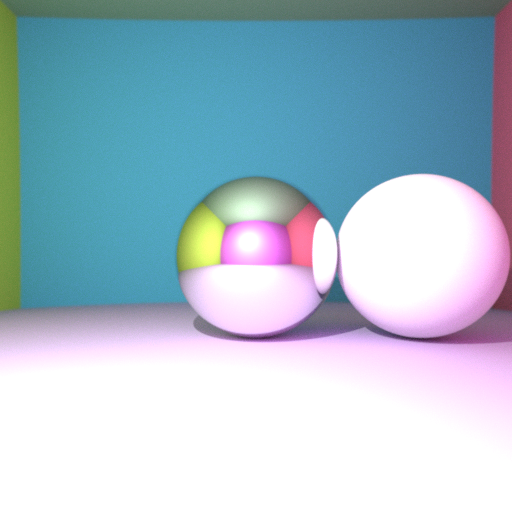
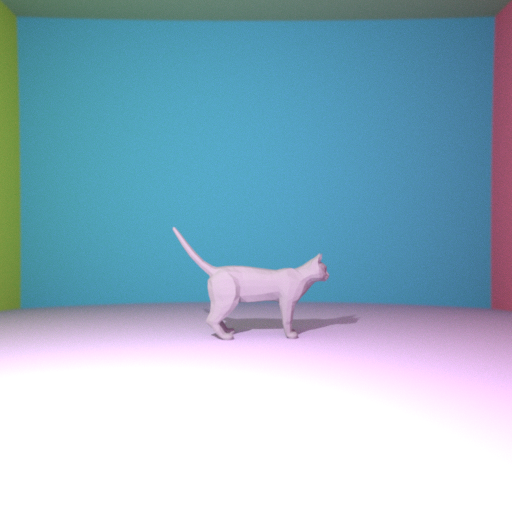
Lab 3 done

Changed region(s): [[0.3438, 0.3125, 1.0, 0.7188]]

diff --git a/main.cpp b/main.cpp
@@ -173,6 +173,30 @@ public:
 		for (int i = 0; i < vertices.size(); i++) {
 			vertices[i] = vertices[i] * s + t;
 		}
+		computeBoundingBox();
+	}
+
+	void computeBoundingBox() {
+		if (vertices.empty()) { bbox_min = bbox_max = Vector(); return; }
+		bbox_min = bbox_max = vertices[0];
+		for (size_t i = 1; i < vertices.size(); i++) {
+			for (int k = 0; k < 3; k++) {
+				bbox_min[k] = std::min(bbox_min[k], vertices[i][k]);
+				bbox_max[k] = std::max(bbox_max[k], vertices[i][k]);
+			}
+		}
+	}
+
+	bool intersectBBox(const Ray& ray) const {
+		double tx1 = (bbox_min[0] - ray.O[0]) / ray.u[0];
+		double tx2 = (bbox_max[0] - ray.O[0]) / ray.u[0];
+		double ty1 = (bbox_min[1] - ray.O[1]) / ray.u[1];
+		double ty2 = (bbox_max[1] - ray.O[1]) / ray.u[1];
+		double tz1 = (bbox_min[2] - ray.O[2]) / ray.u[2];
+		double tz2 = (bbox_max[2] - ray.O[2]) / ray.u[2];
+		double t_near = std::max({std::min(tx1, tx2), std::min(ty1, ty2), std::min(tz1, tz2)});
+		double t_far  = std::min({std::max(tx1, tx2), std::max(ty1, ty2), std::max(tz1, tz2)});
+		return t_far >= t_near && t_far >= 0;
 	}
 
 	// read an .obj file
@@ -290,18 +314,47 @@ public:
 				}
 			}
 		}
+		computeBoundingBox();
 	}
-	
 
-	// TODO ray-mesh intersection (labs 3 and 4)
+
 	bool intersect(const Ray& ray, Vector& P, double& t, Vector& N) const {
-		
-		// lab 3 : for each triangle, compute the ray-triangle intersection with Moller-Trumbore algorithm
-		// lab 3 : once done, speed it up by first checking against the mesh bounding box
 		// lab 4 : recursively apply the bounding-box test from a BVH datastructure
+		if (!intersectBBox(ray)) return false;
 
-
-		return false;
+		double closest_t = INFINITY;
+		bool hit = false;
+		Vector best_N;
+		for (size_t i = 0; i < indices.size(); i++) {
+			const Vector& A = vertices[indices[i].vtx[0]];
+			const Vector& B = vertices[indices[i].vtx[1]];
+			const Vector& C = vertices[indices[i].vtx[2]];
+			Vector e1 = B - A;
+			Vector e2 = C - A;
+			Vector triN = cross(e1, e2);
+			double denom = dot(ray.u, triN);
+			if (std::abs(denom) < 1e-12) continue;
+			Vector AmO = A - ray.O;
+			Vector AmO_x_u = cross(AmO, ray.u);
+			double beta  =  dot(e2, AmO_x_u) / denom;
+			double gamma = -dot(e1, AmO_x_u) / denom;
+			double alpha = 1.0 - beta - gamma;
+			if (alpha < 0 || beta < 0 || gamma < 0) continue;
+			double tt = dot(AmO, triN) / denom;
+			if (tt < 1e-3) continue;
+			if (tt < closest_t) {
+				closest_t = tt;
+				best_N = triN;
+				hit = true;
+			}
+		}
+		if (hit) {
+			t = closest_t;
+			P = ray.O + t * ray.u;
+			best_N.normalize();
+			N = best_N;
+		}
+		return hit;
 	}
 
 
@@ -310,6 +363,7 @@ public:
 	std::vector<Vector> normals;
 	std::vector<Vector> uvs;
 	std::vector<Vector> vertexcolors;
+	Vector bbox_min, bbox_max;
 };
 
 
@@ -411,10 +465,10 @@ int main() {
 		engine[i].seed(i);
 	}
 
-	Sphere center_sphere(Vector(0, 0, 0), 10., Vector(0.8, 0.8, 0.8)); // central
-	Sphere right_sphere(Vector(20, 0, 0), 10., Vector(0.8, 0.8, 0.8)); // right
+	TriangleMesh cat(Vector(0.3, 0.3, 0.3));
+	cat.readOBJ("cat.obj");
+	cat.scale_translate(0.3, Vector(0, -10, 0));
 
-	center_sphere.mirror = true;
 	Sphere wall_left(Vector(-1000, 0, 0), 940, Vector(0.5, 0.8, 0.1));
 	Sphere wall_right(Vector(1000, 0, 0), 940, Vector(0.9, 0.2, 0.3));
 	Sphere wall_front(Vector(0, 0, -1000), 940, Vector(0.1, 0.6, 0.7));
@@ -430,15 +484,13 @@ int main() {
 	scene.gamma = 2.2;    // DONE (lab 1) : play with gamma ; typically, gamma = 2.2
 	scene.max_light_bounce = 5;
 
-	scene.addObject(&center_sphere);
-
+	scene.addObject(&cat);
 	scene.addObject(&wall_left);
 	scene.addObject(&wall_right);
 	scene.addObject(&wall_front);
 	scene.addObject(&wall_behind);
 	scene.addObject(&ceiling);
 	scene.addObject(&floor);
-	scene.addObject(&right_sphere);
 
 	std::vector<unsigned char> image(W * H * 3, 0);
 
